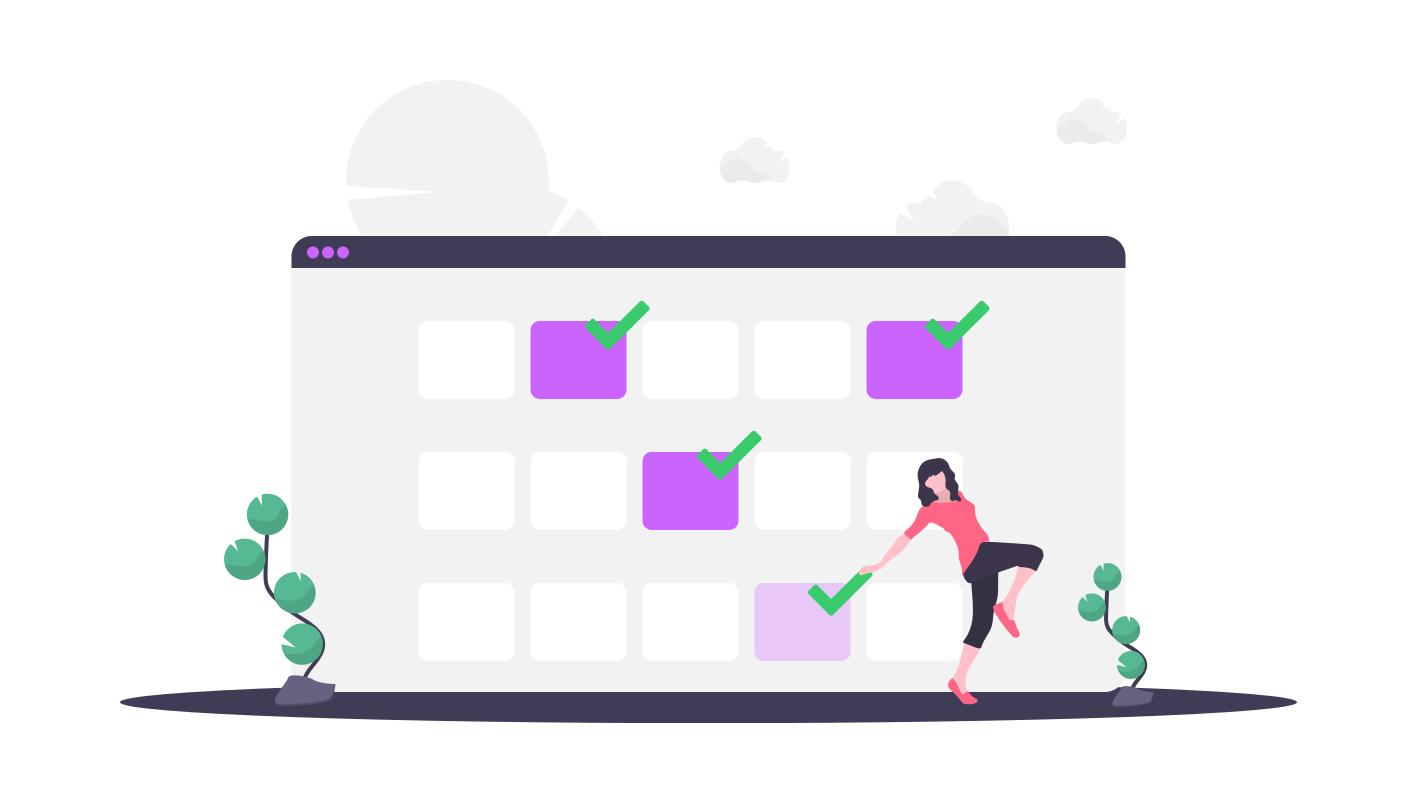
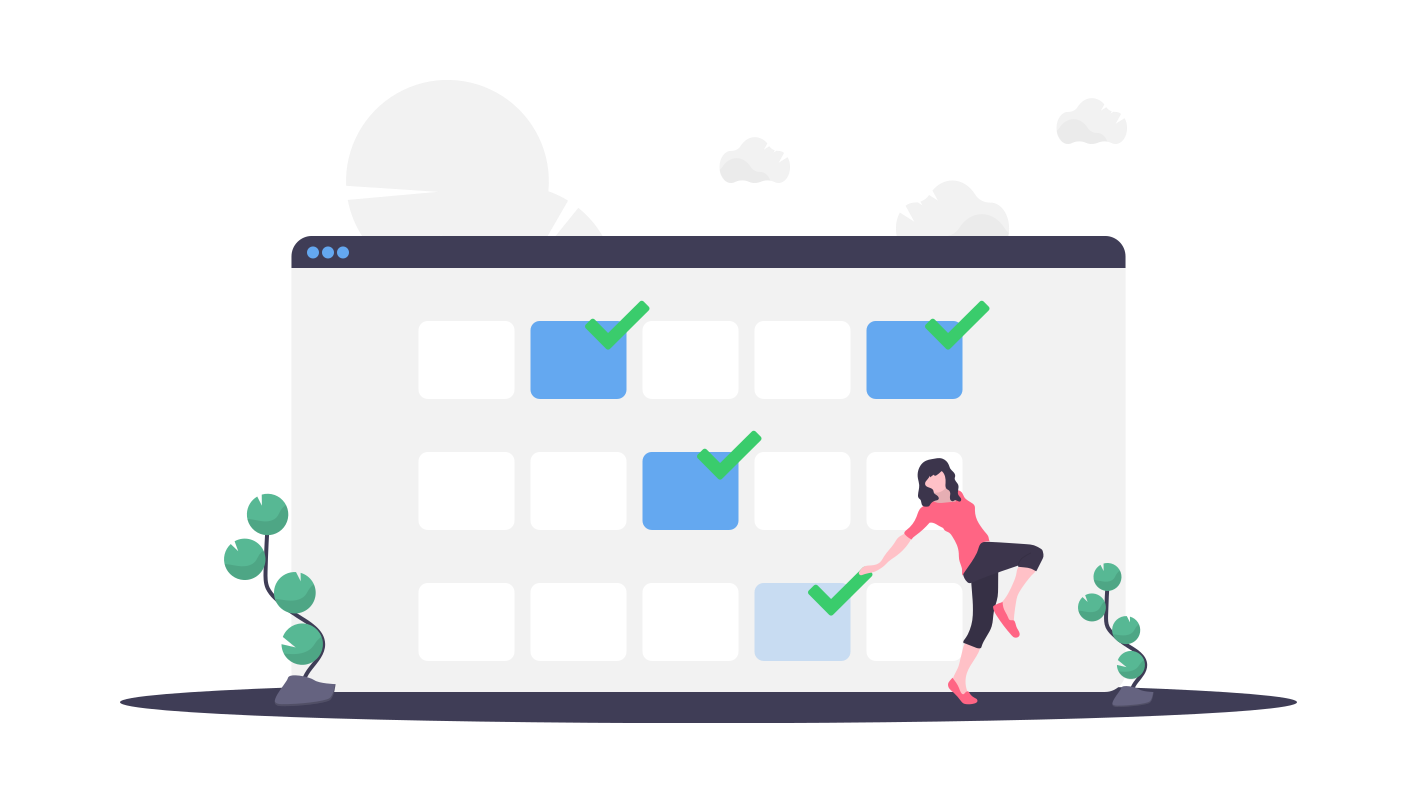
added new images and features

diff --git a/JavaScript CountDown/index.html b/JavaScript CountDown/index.html
@@ -9,31 +9,33 @@
 
     <body>
 
+       
         <section class="coming-soon">
             <div>
-                <h2>We are opening up soon!</h2>
+                <h2>We are starting work soon!</h2>
+                
                 <div class="countdown">
                     <div class="container-day">
                         <h3 class="day">Time</h3>
-                        <h3>Day</h3>
+                        <h3>Days</h3>
                     </div>
                     <div class="container-hour">
                         <h3 class="hour">Time</h3>
-                        <h3>Hour</h3>
+                        <h3>Hours</h3>
                     </div>
                     <div class="container-minute">
                         <h3 class="minute">Time</h3>
-                        <h3>Minute</h3>
+                        <h3>Minutes</h3>
                     </div>
                     <div class="container-day">
-                        <h3 class="day">Time</h3>
-                        <h3>Second</h3>
+                        <h3 class="second">Time</h3>
+                        <h3>Seconds</h3>
                     </div>
 
                 </div>
             </div>
 
-            <img src="./undraw_checking_boxes_2ibd.png" alt="Countdown Image">
+            <img class="drawing" src="./undraw_checking_boxes_2ibd.png" alt="Countdown Image">
         </section>
        
 

diff --git a/JavaScript CountDown/app.js b/JavaScript CountDown/app.js
@@ -1,6 +1,28 @@
 const countdown =()=>{
-    const countDate = new Date('June 21, 2021, 20:00:00');
-    console.log(countDate);
+    const countDate = new Date('June 21, 2021, 08:00:00').getTime();
+    const current = new Date().getTime();
+    const gap = countDate - current;
 
+    //How time works
+    const second = 1000;
+    const minute = second * 60;
+    const hour = minute *60;
+    const day = hour * 24;
+
+    //Calculate from the gap how many days are there
+    const days_left = Math.floor(gap/day);
+    console.log(days_left);
+    const hours_left = Math.floor((gap%day)/hour)
+    console.log(hours_left)
+    const minutes_left = Math.floor((gap%hour)/minute)
+    console.log(minutes_left)
+    const seconds_left = Math.floor((gap%minute)/second)
+    console.log(seconds_left)
+
+    document.querySelector('.day').innerText = days_left;
+    document.querySelector('.hour').innerText = hours_left;
+    document.querySelector('.minute').innerText = minutes_left;
+    document.querySelector('.second').innerText = seconds_left;
 }
-countdown();
+
+setInterval(countdown, 1000)

diff --git a/JavaScript CountDown/style.css b/JavaScript CountDown/style.css
@@ -10,11 +10,13 @@ body{
 
 h2{
     font-size: 5rem;
-    color: #F363FF;
+    color: #64a8f0;
+    text-align: center;
+    padding: 2rem;
 }
 
 .coming-soon{
-    min-height: 100vh;
+    max-height: 100vh;
     display: flex;
     align-items: center;
     flex-direction: column;
@@ -25,9 +27,8 @@ h2{
     display: flex;
     flex-direction: row;
     justify-content: space-around;
-
 }
 
-img{
-    width: 50rem;
+.drawing{
+    width: 45rem;
 }
